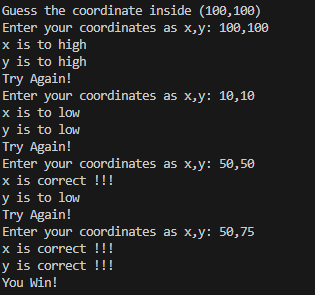
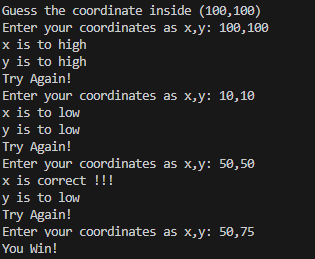
Updated example code slightly

Changed region(s): [[0.0, 0.0, 0.8571, 0.9884], [0.6857, 0.8649, 0.8, 0.9266]]

diff --git a/public/usage-examples/geometry/same_point/same_point-1-guessing-game-oop.cs b/public/usage-examples/geometry/same_point/same_point-1-guessing-game-oop.cs
@@ -1,61 +1,63 @@
 using SplashKitSDK;
 
-namespace SamePoint
+namespace SamePointExample
 {
     public class Program
     {
+        public static Point2D GetPoint(string prompt)
+        {
+            // Get user input
+            SplashKit.Write(prompt);
+            string guessInput = SplashKit.ReadLine();
+            List<string> coords = SplashKit.Split(guessInput, ',');
+
+            // Validate input
+            while (!SplashKit.IsDouble(coords[0]) || !SplashKit.IsDouble(coords[1]))
+            {
+                SplashKit.WriteLine("Invalid input. Try again.");
+                SplashKit.Write(prompt);
+                guessInput = SplashKit.ReadLine();
+                coords = SplashKit.Split(guessInput, ',');
+            }
+
+            // Convert input
+            double guessX = SplashKit.ConvertToDouble(coords[0]);
+            double guessY = SplashKit.ConvertToDouble(coords[1]);
+            return SplashKit.PointAt(guessX, guessY);
+        }
+
         public static void Main()
         {
             // Variable Declarations
-            Point2D Point1 = SplashKit.PointAt(50, 75);
-            Point2D Point2;
-            string GuessInput;
-            List<string> Coords;
-            double GuessX;
-            double GuessY;
-            bool Guess = false;
+            Point2D targetPoint = SplashKit.PointAt(50, 75);
+            Point2D guessPoint;
 
             SplashKit.WriteLine("Guess the coordinate inside (100,100) ");
 
-            while (!Guess)
+            // Get user input
+            guessPoint = GetPoint("Enter your coordinates as x,y: ");
+
+            while (!SplashKit.SamePoint(targetPoint, guessPoint))
             {
-                // Get user input
-                SplashKit.Write("Enter your coordinates as x,y: ");
-                GuessInput = SplashKit.ReadLine();
-                Coords = SplashKit.Split(GuessInput, ',');
-
-                // Convert input
-                GuessX = SplashKit.ConvertToDouble(Coords[0]);
-                GuessY = SplashKit.ConvertToDouble(Coords[1]);
-                Point2.X = GuessX;
-                Point2.Y = GuessY;
-
                 // Clues
-                if (Point1.X > GuessX)
+                if (targetPoint.X > guessPoint.X)
                     SplashKit.WriteLine("x is too low");
-                else if (Point1.X < GuessX)
+                else if (targetPoint.X < guessPoint.X)
                     SplashKit.WriteLine("x is too high");
                 else
                     SplashKit.WriteLine("x is correct !!!");
 
-                if (Point1.Y > GuessY)
+                if (targetPoint.Y > guessPoint.Y)
                     SplashKit.WriteLine("y is too low");
-                else if (Point1.Y < GuessY)
+                else if (targetPoint.Y < guessPoint.Y)
                     SplashKit.WriteLine("y is too high");
                 else
                     SplashKit.WriteLine("y is correct !!!");
 
-                // Point Comparison
-                Guess = SplashKit.SamePoint(Point1, Point2);
-                if (!Guess)
-                {
-                    SplashKit.WriteLine("Try Again!");
-                }
-                else
-                {
-                    SplashKit.WriteLine("You Win!");
-                }
+                SplashKit.WriteLine("Try Again!");
+                guessPoint = GetPoint("Enter your coordinates as x,y: ");
             }
+            SplashKit.WriteLine("You Win!");
         }
     }
 }

diff --git a/public/usage-examples/geometry/same_point/same_point-1-guessing-game.cpp b/public/usage-examples/geometry/same_point/same_point-1-guessing-game.cpp
@@ -1,56 +1,59 @@
 #include "splashkit.h"
 
+point_2d get_point(string prompt)
+{
+    // Get user input
+    write(prompt);
+    string guess_input = read_line();
+    vector<string> coords = split(guess_input, ',');
+
+    // Validate input
+    while (!is_double(coords[0]) || !is_double(coords[1]))
+    {
+        write_line("Invalid input. Try again.");
+        write(prompt);
+        guess_input = read_line();
+        coords = split(guess_input, ',');
+    }
+
+    // Convert input
+    double guess_x = convert_to_double(coords[0]);
+    double guess_y = convert_to_double(coords[1]);
+    return point_at(guess_x, guess_y);
+}
+
 int main()
 {
     //  Variable declarations
-    point_2d point_1 = point_at(50, 75);
-    point_2d point_2;
-    string guess_input;
-    vector<string> coords;
-    double guess_x;
-    double guess_y;
-    bool guess = false;
+    point_2d target_point = point_at(50, 75);
+    point_2d guess_point;
 
     write_line("Guess the coordinate inside (100,100)");
 
-    while (!guess)
+    // Get point input from user
+    guess_point = get_point("Enter your coordinates as x,y: ");
+
+    while (!same_point(target_point, guess_point))
     {
-        // Get user input
-        write("Enter your coordinates as x,y: ");
-        guess_input = read_line();
-        coords = split(guess_input, ',');
-
-        // Convert input 
-        guess_x = convert_to_double(coords[0]);
-        guess_y = convert_to_double(coords[1]);
-        point_2 = point_at(guess_x, guess_y);
-
         // Clues
-        if (point_1.x > guess_x)
+        if (target_point.x > guess_point.x)
             write_line("x is too low");
-        else if (point_1.x < guess_x)
+        else if (target_point.x < guess_point.x)
             write_line("x is too high");
         else
             write_line("x is correct !!!");
 
-        if (point_1.y > guess_y)
+        if (target_point.y > guess_point.y)
             write_line("y is too low");
-        else if (point_1.y < guess_y)
+        else if (target_point.y < guess_point.y)
             write_line("y is too high");
         else
             write_line("y is correct !!!");
 
-        // Point comparison 
-        guess = same_point(point_1, point_2);
-        if (!guess)
-        {
-            write_line("Try Again!");
-        }
-        else
-        {
-            write_line("You Win!");
-        }
+        write_line("Try Again!");
+        guess_point = get_point("Enter your coordinates as x,y: ");
     }
+    write_line("You Win!");
 
     return 0;
 }

diff --git a/public/usage-examples/geometry/same_point/same_point-1-guessing-game.py b/public/usage-examples/geometry/same_point/same_point-1-guessing-game.py
@@ -1,40 +1,51 @@
 from splashkit import *
 
-# Variable declarations
-point_1 = point_at(50, 75)
-guess = False
-write_line("Guess the coordinate inside (100,100)")
-
-while not guess:
-
+def get_point(prompt):
     # Get user input
-    write("Enter your coordinates as x,y: ")
+    write(prompt)
     guess_input = read_line()
     coords = split(guess_input, ',')
+
+    # Validate input
+    while (not is_double(coords[0]) or not is_double(coords[1])):
+        write_line("Invalid input. Try again.")
+        write(prompt)
+        guess_input = read_line()
+        coords = split(guess_input, ',')
+
+    # Convert input
     guess_x = convert_to_double(coords[0])
     guess_y = convert_to_double(coords[1])
+    return point_at(guess_x, guess_y)
 
-    # Convert input 
-    point_2 = point_at(guess_x, guess_y)
-    
-    # Clues
-    if point_1.x > guess_x:
-        write_line("x is too low")
-    elif point_1.x < guess_x:
-        write_line("x is too high")
-    else:
-        write_line("x is correct !!!")
-    
-    if point_1.y > guess_y: 
-        write_line("y is too low")
-    elif point_1.y < guess_y: 
-        write_line("y is too high")
-    else: 
-        write_line("y is correct !!!")
+def main():
+    # Variable declarations
+    target_point = point_at(50, 75)
 
-    # Point comparison 
-    guess = same_point(point_1, point_2)
-    if not guess:
+    write_line("Guess the coordinate inside (100,100)")
+
+    # Get point input from user
+    guess_point = get_point("Enter your coordinates as x,y: ")
+
+    while (not same_point(target_point, guess_point)):        
+        # Clues
+        if target_point.x > guess_point.x:
+            write_line("x is too low")
+        elif target_point.x < guess_point.x:
+            write_line("x is too high")
+        else:
+            write_line("x is correct !!!")
+        
+        if target_point.y > guess_point.y: 
+            write_line("y is too low")
+        elif target_point.y < guess_point.y: 
+            write_line("y is too high")
+        else: 
+            write_line("y is correct !!!")
+
         write_line("Try Again!")
-    else:
-        write_line("You Win!")
+        guess_point = get_point("Enter your coordinates as x,y: ")
+
+    write_line("You Win!")
+
+main()

diff --git a/public/usage-examples/geometry/same_point/same_point-1-guessing-game-top-level.cs b/public/usage-examples/geometry/same_point/same_point-1-guessing-game-top-level.cs
@@ -1,52 +1,55 @@
 using SplashKitSDK;
 using static SplashKitSDK.SplashKit;
 
+static Point2D GetPoint(string prompt)
+{
+    // Get user input
+    Write(prompt);
+    string guessInput = ReadLine();
+    List<string> coords = Split(guessInput, ',');
+
+    // Validate input
+    while (!IsDouble(coords[0]) || !IsDouble(coords[1]))
+    {
+        WriteLine("Invalid input. Try again.");
+        Write(prompt);
+        guessInput = ReadLine();
+        coords = Split(guessInput, ',');
+    }
+
+    // Convert input
+    double guessX = ConvertToDouble(coords[0]);
+    double guessY = ConvertToDouble(coords[1]);
+    return PointAt(guessX, guessY);
+}
+
 // Variable Declarations
-Point2D Point1 = PointAt(50, 75);
-Point2D Point2;
-string GuessInput;
-List<string> Coords;
-double GuessX;
-double GuessY;
-bool Guess = false;
+Point2D targetPoint = PointAt(50, 75);
+Point2D guessPoint;
 
 WriteLine("Guess the coordinate inside (100,100) ");
 
-while (!Guess)
+// Get user input
+guessPoint = GetPoint("Enter your coordinates as x,y: ");
+
+while (!SamePoint(targetPoint, guessPoint))
 {
-    // Get user input
-    Write("Enter your coordinates as x,y: ");
-    GuessInput = ReadLine();
-    Coords = Split(GuessInput, ',');
-
-    // Convert input
-    GuessX = ConvertToDouble(Coords[0]);
-    GuessY = ConvertToDouble(Coords[1]);
-    Point2 = PointAt(GuessX, GuessY);
-
     // Clues
-    if (Point1.X > GuessX)
+    if (targetPoint.X > guessPoint.X)
         WriteLine("x is too low");
-    else if (Point1.X < GuessX)
+    else if (targetPoint.X < guessPoint.X)
         WriteLine("x is too high");
     else
         WriteLine("x is correct !!!");
 
-    if (Point1.Y > GuessY)
+    if (targetPoint.Y > guessPoint.Y)
         WriteLine("y is too low");
-    else if (Point1.Y < GuessY)
+    else if (targetPoint.Y < guessPoint.Y)
         WriteLine("y is too high");
     else
         WriteLine("y is correct !!!");
 
-    // Point Comparison
-    Guess = SamePoint(Point1, Point2);
-    if (!Guess)
-    {
-        WriteLine("Try Again!");
-    }
-    else
-    {
-        WriteLine("You Win!");
-    }
+    WriteLine("Try Again!");
+    guessPoint = GetPoint("Enter your coordinates as x,y: ");
 }
+WriteLine("You Win!");
